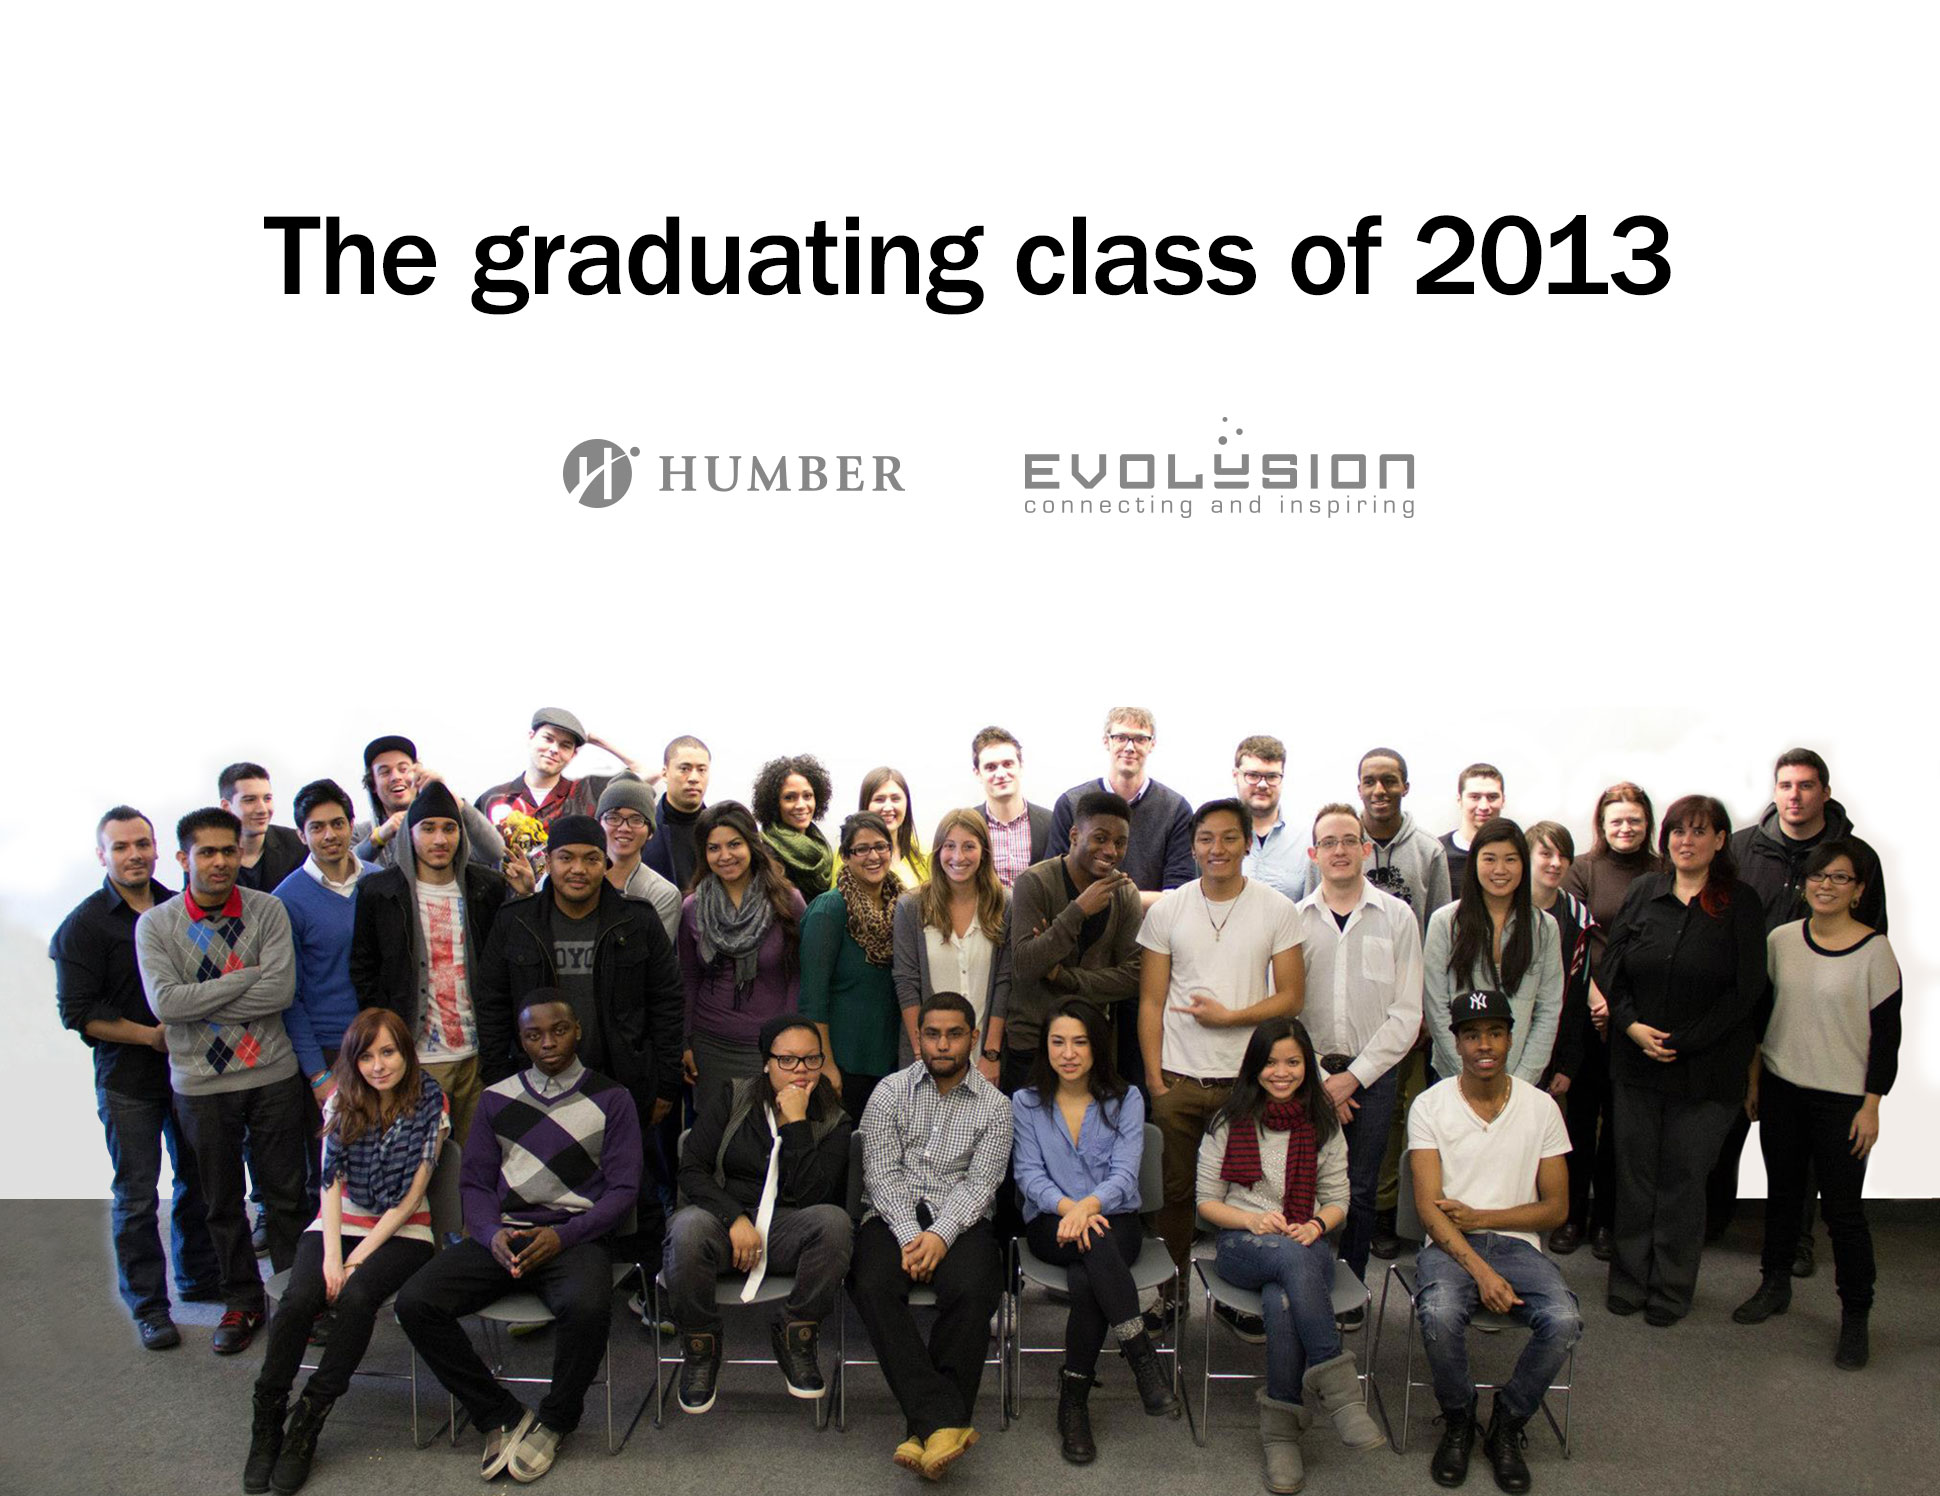
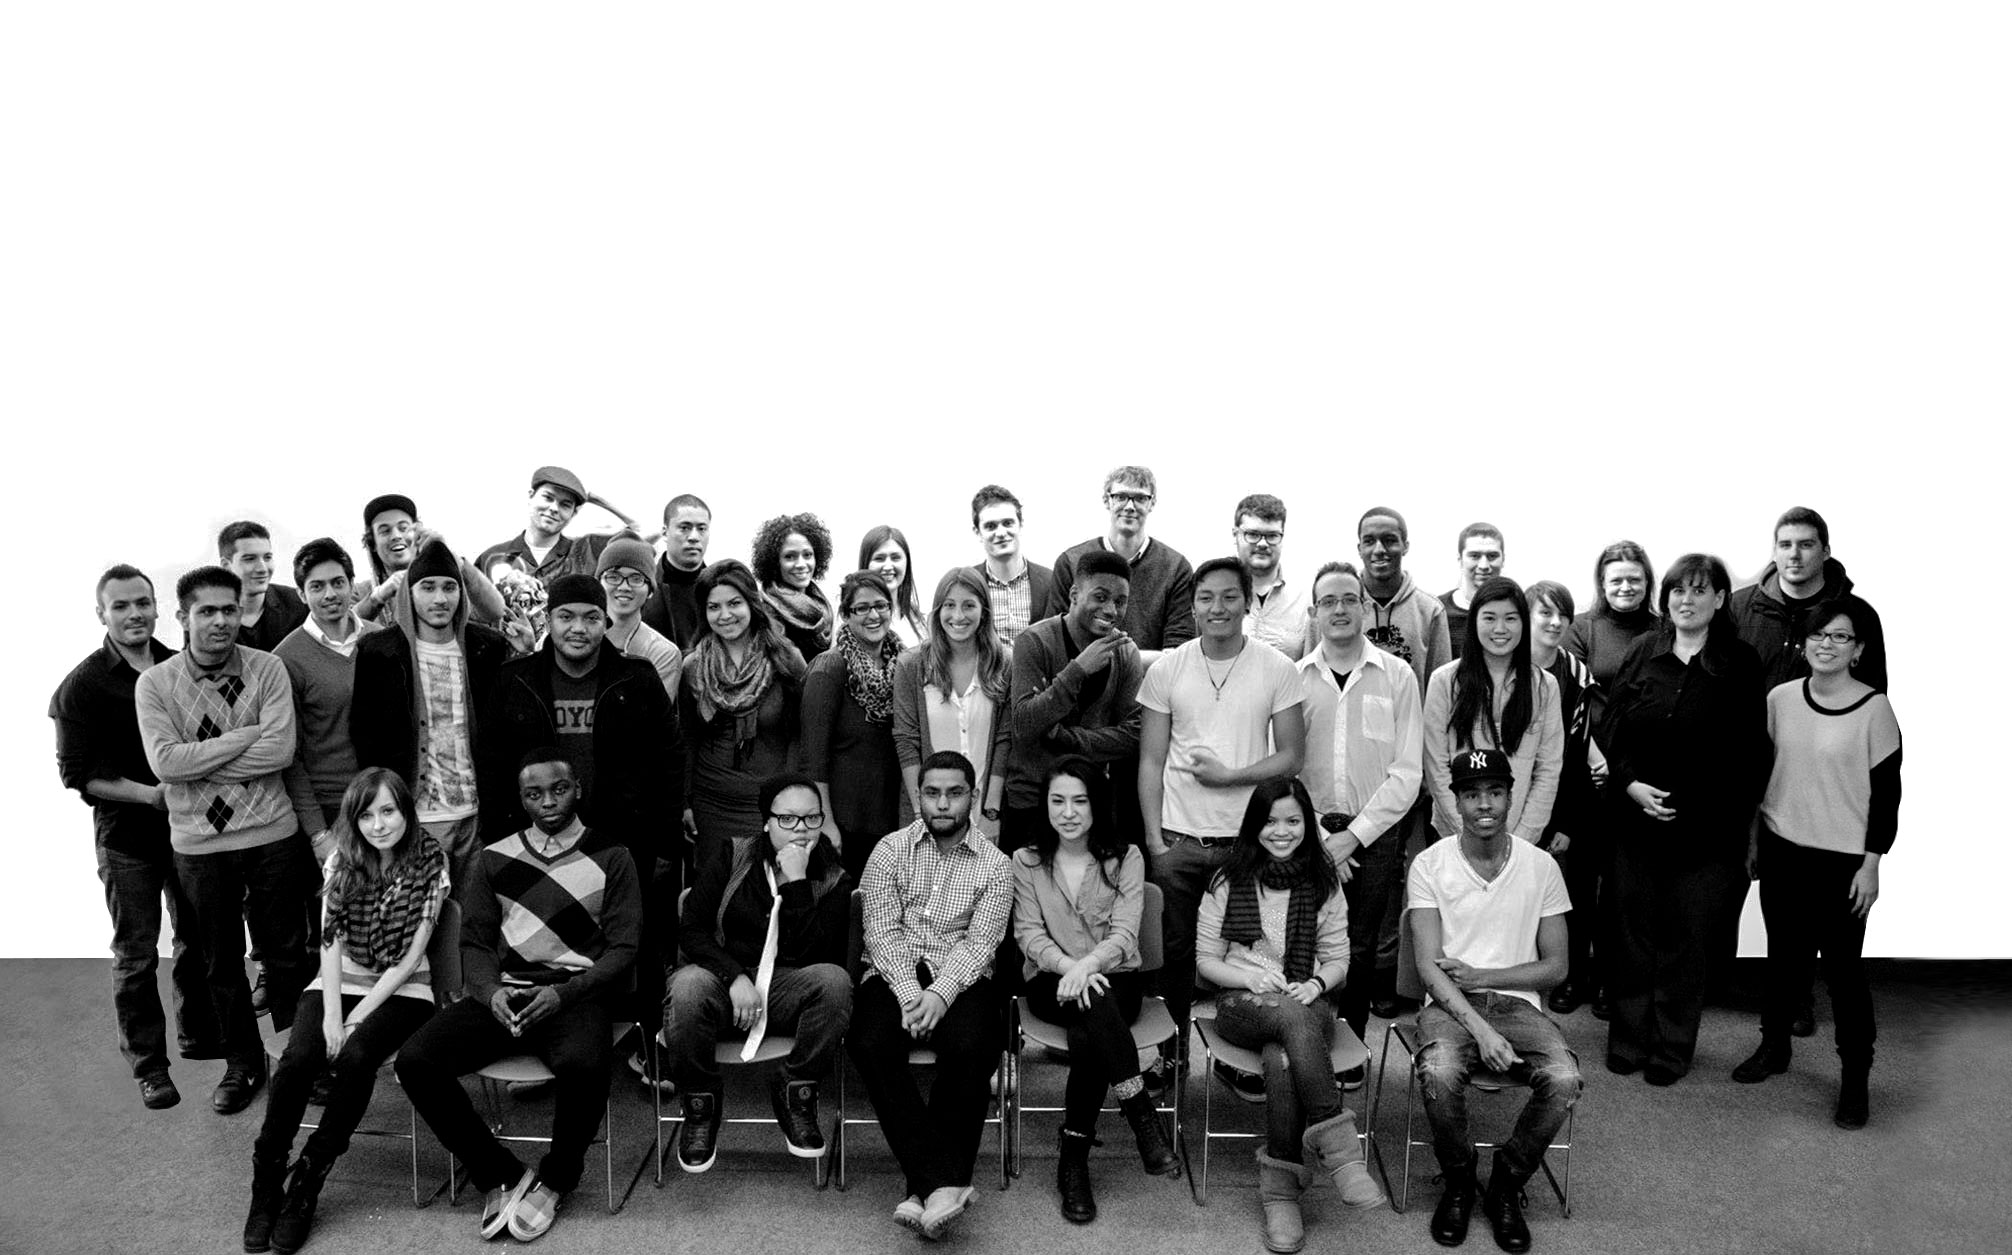
j0.17.0
landing page

diff --git a/index.html b/index.html
@@ -212,28 +212,59 @@
 
     <section>
         <div id="landing">
-            <h2>Congratulations Class of 2013</h2>
-            <p>You did it! lol</p>
-            <p>Maecenas faucibus mollis interdum. Aenean eu leo quam. Pellentesque ornare sem lacinia quam venenatis vestibulum. Donec id elit non mi porta gravida at eget metus. Maecenas faucibus mollis interdum. Sed posuere consectetur est at lobortis. Lorem ipsum dolor sit amet, consectetur adipiscing elit. Nullam quis risus eget urna mollis ornare vel eu leo.</p>
-            <p>Maecenas faucibus mollis interdum. Aenean eu leo quam. Pellentesque ornare sem lacinia quam venenatis vestibulum. Donec id elit non mi porta gravida at eget metus. Maecenas faucibus mollis interdum. Sed posuere consectetur est at lobortis. Lorem ipsum dolor sit amet, consectetur adipiscing elit. Nullam quis risus eget urna mollis ornare vel eu leo.</p>
-            <p>Maecenas faucibus mollis interdum. Aenean eu leo quam. Pellentesque ornare sem lacinia quam venenatis vestibulum. Donec id elit non mi porta gravida at eget metus. Maecenas faucibus mollis interdum. Sed posuere consectetur est at lobortis. Lorem ipsum dolor sit amet, consectetur adipiscing elit. Nullam quis risus eget urna mollis ornare vel eu leo.</p>
-            <p>Maecenas faucibus mollis interdum. Aenean eu leo quam. Pellentesque ornare sem lacinia quam venenatis vestibulum. Donec id elit non mi porta gravida at eget metus. Maecenas faucibus mollis interdum. Sed posuere consectetur est at lobortis. Lorem ipsum dolor sit amet, consectetur adipiscing elit. Nullam quis risus eget urna mollis ornare vel eu leo.</p>
-            <p>Maecenas faucibus mollis interdum. Aenean eu leo quam. Pellentesque ornare sem lacinia quam venenatis vestibulum. Donec id elit non mi porta gravida at eget metus. Maecenas faucibus mollis interdum. Sed posuere consectetur est at lobortis. Lorem ipsum dolor sit amet, consectetur adipiscing elit. Nullam quis risus eget urna mollis ornare vel eu leo.</p>
-            <p>Maecenas faucibus mollis interdum. Aenean eu leo quam. Pellentesque ornare sem lacinia quam venenatis vestibulum. Donec id elit non mi porta gravida at eget metus. Maecenas faucibus mollis interdum. Sed posuere consectetur est at lobortis. Lorem ipsum dolor sit amet, consectetur adipiscing elit. Nullam quis risus eget urna mollis ornare vel eu leo.</p>
-            <p>Maecenas faucibus mollis interdum. Aenean eu leo quam. Pellentesque ornare sem lacinia quam venenatis vestibulum. Donec id elit non mi porta gravida at eget metus. Maecenas faucibus mollis interdum. Sed posuere consectetur est at lobortis. Lorem ipsum dolor sit amet, consectetur adipiscing elit. Nullam quis risus eget urna mollis ornare vel eu leo.</p>
-            <p>Maecenas faucibus mollis interdum. Aenean eu leo quam. Pellentesque ornare sem lacinia quam venenatis vestibulum. Donec id elit non mi porta gravida at eget metus. Maecenas faucibus mollis interdum. Sed posuere consectetur est at lobortis. Lorem ipsum dolor sit amet, consectetur adipiscing elit. Nullam quis risus eget urna mollis ornare vel eu leo.</p>
-            <p>Maecenas faucibus mollis interdum. Aenean eu leo quam. Pellentesque ornare sem lacinia quam venenatis vestibulum. Donec id elit non mi porta gravida at eget metus. Maecenas faucibus mollis interdum. Sed posuere consectetur est at lobortis. Lorem ipsum dolor sit amet, consectetur adipiscing elit. Nullam quis risus eget urna mollis ornare vel eu leo.</p>
-            <p>Maecenas faucibus mollis interdum. Aenean eu leo quam. Pellentesque ornare sem lacinia quam venenatis vestibulum. Donec id elit non mi porta gravida at eget metus. Maecenas faucibus mollis interdum. Sed posuere consectetur est at lobortis. Lorem ipsum dolor sit amet, consectetur adipiscing elit. Nullam quis risus eget urna mollis ornare vel eu leo.</p>
-            <p>Maecenas faucibus mollis interdum. Aenean eu leo quam. Pellentesque ornare sem lacinia quam venenatis vestibulum. Donec id elit non mi porta gravida at eget metus. Maecenas faucibus mollis interdum. Sed posuere consectetur est at lobortis. Lorem ipsum dolor sit amet, consectetur adipiscing elit. Nullam quis risus eget urna mollis ornare vel eu leo.</p>
-            <p>Maecenas faucibus mollis interdum. Aenean eu leo quam. Pellentesque ornare sem lacinia quam venenatis vestibulum. Donec id elit non mi porta gravida at eget metus. Maecenas faucibus mollis interdum. Sed posuere consectetur est at lobortis. Lorem ipsum dolor sit amet, consectetur adipiscing elit. Nullam quis risus eget urna mollis ornare vel eu leo.</p>
-            <p>Maecenas faucibus mollis interdum. Aenean eu leo quam. Pellentesque ornare sem lacinia quam venenatis vestibulum. Donec id elit non mi porta gravida at eget metus. Maecenas faucibus mollis interdum. Sed posuere consectetur est at lobortis. Lorem ipsum dolor sit amet, consectetur adipiscing elit. Nullam quis risus eget urna mollis ornare vel eu leo.</p>
-            <p>Maecenas faucibus mollis interdum. Aenean eu leo quam. Pellentesque ornare sem lacinia quam venenatis vestibulum. Donec id elit non mi porta gravida at eget metus. Maecenas faucibus mollis interdum. Sed posuere consectetur est at lobortis. Lorem ipsum dolor sit amet, consectetur adipiscing elit. Nullam quis risus eget urna mollis ornare vel eu leo.</p>
-            <p>Maecenas faucibus mollis interdum. Aenean eu leo quam. Pellentesque ornare sem lacinia quam venenatis vestibulum. Donec id elit non mi porta gravida at eget metus. Maecenas faucibus mollis interdum. Sed posuere consectetur est at lobortis. Lorem ipsum dolor sit amet, consectetur adipiscing elit. Nullam quis risus eget urna mollis ornare vel eu leo.</p>
-            <p>Maecenas faucibus mollis interdum. Aenean eu leo quam. Pellentesque ornare sem lacinia quam venenatis vestibulum. Donec id elit non mi porta gravida at eget metus. Maecenas faucibus mollis interdum. Sed posuere consectetur est at lobortis. Lorem ipsum dolor sit amet, consectetur adipiscing elit. Nullam quis risus eget urna mollis ornare vel eu leo.</p>
-            <p>Maecenas faucibus mollis interdum. Aenean eu leo quam. Pellentesque ornare sem lacinia quam venenatis vestibulum. Donec id elit non mi porta gravida at eget metus. Maecenas faucibus mollis interdum. Sed posuere consectetur est at lobortis. Lorem ipsum dolor sit amet, consectetur adipiscing elit. Nullam quis risus eget urna mollis ornare vel eu leo.</p>
-            <p>Maecenas faucibus mollis interdum. Aenean eu leo quam. Pellentesque ornare sem lacinia quam venenatis vestibulum. Donec id elit non mi porta gravida at eget metus. Maecenas faucibus mollis interdum. Sed posuere consectetur est at lobortis. Lorem ipsum dolor sit amet, consectetur adipiscing elit. Nullam quis risus eget urna mollis ornare vel eu leo.</p>
-            <p>Maecenas faucibus mollis interdum. Aenean eu leo quam. Pellentesque ornare sem lacinia quam venenatis vestibulum. Donec id elit non mi porta gravida at eget metus. Maecenas faucibus mollis interdum. Sed posuere consectetur est at lobortis. Lorem ipsum dolor sit amet, consectetur adipiscing elit. Nullam quis risus eget urna mollis ornare vel eu leo.</p>
-            <p>Maecenas faucibus mollis interdum. Aenean eu leo quam. Pellentesque ornare sem lacinia quam venenatis vestibulum. Donec id elit non mi porta gravida at eget metus. Maecenas faucibus mollis interdum. Sed posuere consectetur est at lobortis. Lorem ipsum dolor sit amet, consectetur adipiscing elit. Nullam quis risus eget urna mollis ornare vel eu leo.</p>
+            <div id="landing-01">
+                <h2>Congratulations Class of 2013</h2>
+                <br>
+                
+                <p><img src="imgs/swipeup.svg" alt=" "><br>
+                    swipe up to continue</p>
+            </div>
+            <div id="landing-02" class="clearfix">
+                <div class="left_div">
+                    <img src="imgs/thedean.png" alt=" ">
+                </div>
+                <div class="right_div">
+                    <h2>Welcome</h2><br>
+                    <p>The School of Media Studies &amp; Information Technology offers the largest college-level combination of media-sector programs in Canada. We love what we do and we are very proud of our students’ success and achievements. Faculty, support staff, administrators and industry partners are focused on creating a learning environment where our students can develop to their full potential.</p><br>
+                    <p>Our students are exposed to a broad variety of teaching methods and learning experiences designed to develop multifaceted professionals ready to succeed in their chosen field. From traditional classroom spaces and delivery, to leading-edge technology studios for highly experiential learning, the opportunities to experiment, learn and grow are endless.</p><br>
+                    <p>Award-winning students, countless success stories, and graduates developing fantastic careers in all aspects of media and information technology, are the best testimonies to the work we do.</p><br>
+                    <p><img src="imgs/deansig.png"></p>
+                    <p>Guillermo Acosta,<br>
+                        Dean</p>
+                </div>
+            </div>
+
+            <div id="landing-03" class="clearfix">
+                    <h2>Multimedia Design and Production Technician</h2><br>
+                    <h3>Diploma | 2011-2013 | North Campus</h3><br>
+                    <img src="imgs/profs/george.png" alt=" ">
+                    <img src="imgs/profs/tom.png" alt=" ">
+                    <img src="imgs/profs/linda.png" alt=" ">
+                    <img src="imgs/profs/greg.png" alt=" ">
+                    <img src="imgs/profs/chris.png" alt=" ">
+                    <img src="imgs/profs/dwayne.png" alt=" ">
+                    <img src="imgs/profs/amit.png" alt=" ">
+                    <img src="imgs/profs/curtis.png" alt=" ">
+                    <img src="imgs/profs/andrew.png" alt=" ">
+                    <img src="imgs/profs/adam.png" alt=" "><br><br>
+                    <h3 class="bold">Thank you to the entire faculty who taught over the last two years</h3><br>
+                    <p class="small"><i>In order LtoR:<i> George Paravantes, Tom Green, Linda Nakanishi, Greg Goralski, Chris Maissan, <br>Dwayne (The Rock) Johnson, Amit Chail, Curtis Brown, Andrew Dertinger, Adam Leon.<br>
+                    <i>Missing: </i> Arthur Campus, Jordan McCarthy, Domenic Ubaldino.<br>
+                    <i>Honourable Mention:</i> James Cullin</p><br>
+                    <img src="imgs/profs/james.png" alt=" ">
+            </div>
+
+            <div id="landing-04" class="clearfix">
+                <h2>Yearbook Touch Gestures</h2>
+                <p>Learn how navigate the app by learning which areas are interactive.</p>
+                <p><u>Swipe left and right</u> on the image below to view it. <br><u>Tap on the image</u> below to overlay the gesture controls. </p><br><br>
+                <div id="instructions">
+                    <img src="imgs/overview.png" alt=" " id="overview">
+                    <img src="imgs/overlay.png" alt=" " id="overlay">
+                </div>
+                <br><br>
+                <h3>Ready to give it a shot? Open the grad menu on the left!</h3><br>
+            </div>
         </div>
 
 
@@ -241,7 +272,7 @@
         <div id="info">
             <div id="info-wrapper">
                 <div id="info-container">
-                    <a href="http://youtu.be/sFaKwW8Hkig" id="youtube_info" target="_blank"><img src="imgs/CS-gradshow.jpg" alt=" "></a>
+                    
                 </div>
             </div>
         </div>
@@ -271,13 +302,13 @@
                 <div class="name">
                     <a class="about_lightbox" id="student_bio" href="">
                         <img src="imgs/ic-about.svg" alt=" ">
-                        <p id="student_name">Jeffrey Ace Fulgar</p>
+                        <p id="student_name"> </p>
                     </a>
                 </div>
                 <div class="links">
                     <a class="yearbook_lightbox" id="link-website" href="" target="_blank">
                         <img src="imgs/ic-website.svg" alt=" ">
-                        <p>www.jfulgar.com</p>
+                        <p> </p>
                     </a>
                 </div>
 

diff --git a/css/style.scss b/css/style.scss
@@ -398,9 +398,83 @@ section {
 	#landing {
 		@include fullscreen;
 		z-index: 99;
-		background: white;
+		background: white url("../imgs/CS-credits.jpg")no-repeat center center fixed;
+		background-size: cover;
 		overflow-y: scroll;
 		-webkit-overflow-scrolling: touch; //ios native scrolling
+		font-family: 'Noto Sans', sans-serif;
+		width: 100%;
+		#landing-01 {
+			width: 90%;
+			height: 85%;
+			padding: 5%;
+		}
+		#landing-02 {
+			background: whitesmoke;
+			width: 90%;
+			padding: 5% 5% 0 5%;
+			div.left_div {
+				width: 30%;
+				float: left;
+			}
+			div.right_div {
+				width: 68%;
+				float: right;
+				p {
+					font-size: 14px;
+					text-align: left;
+					img {
+						width: 100px;
+					}
+				}
+				h2 {
+					font-size: 24px;
+					text-align: left;
+				}
+			}
+		}
+		#landing-03 {
+			background: url("../imgs/shatteredblk.png");
+			color: whitesmoke;
+			width: 90%;
+			padding: 5%;
+			text-align: center;
+			img {
+				width:18%;
+			}
+			h2 {
+				font-size: 24px;
+			}
+			h3.bold {
+				font-weight: bold;
+			}
+			
+		}
+		#landing-04{
+			background: url("../imgs/shattered.png");
+			color: #333333;
+			width: 90%;
+			padding: 5%;
+			text-align: center;
+			#instructions {
+				width: 100%;
+				overflow-x: scroll;
+			}			
+		}
+		h2 {
+			font-size: 50px;
+			font-weight: bold;
+			width: 100%;
+			text-align: center;
+		}
+		p {
+			width: 100%;
+			text-align: center;
+			img {
+				height: 30px;
+				opacity: 0.4;
+			}
+		}
 	}
 	#info {
 		@include fullscreen;
